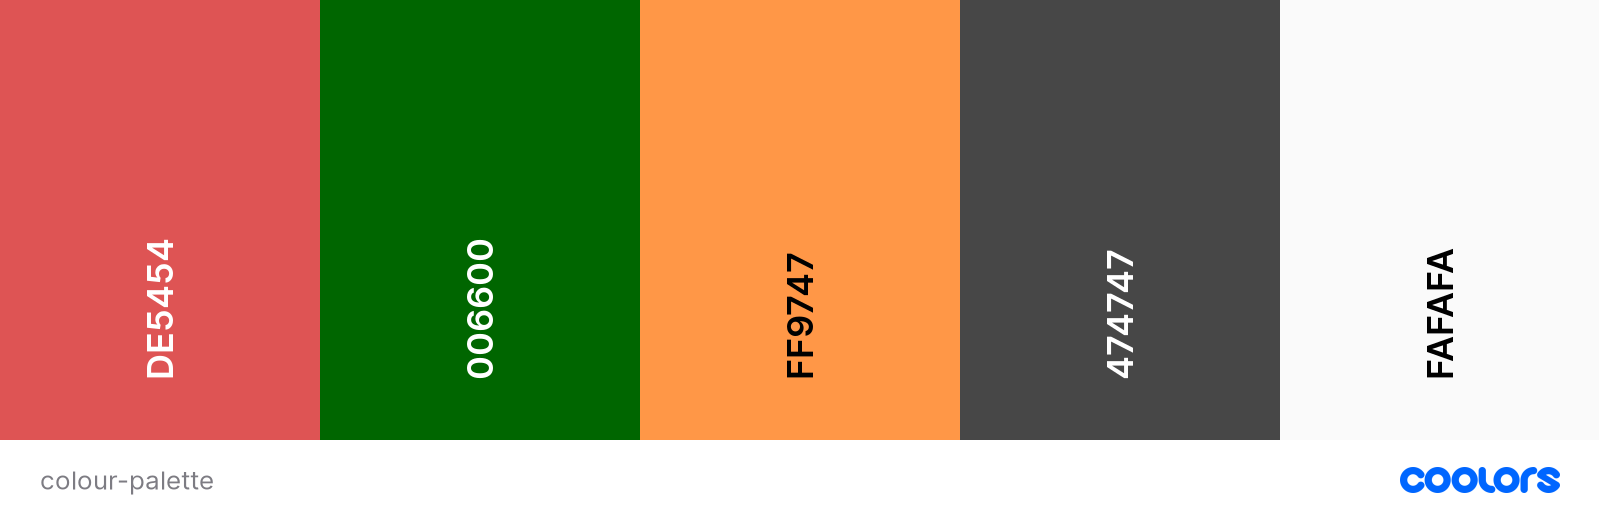
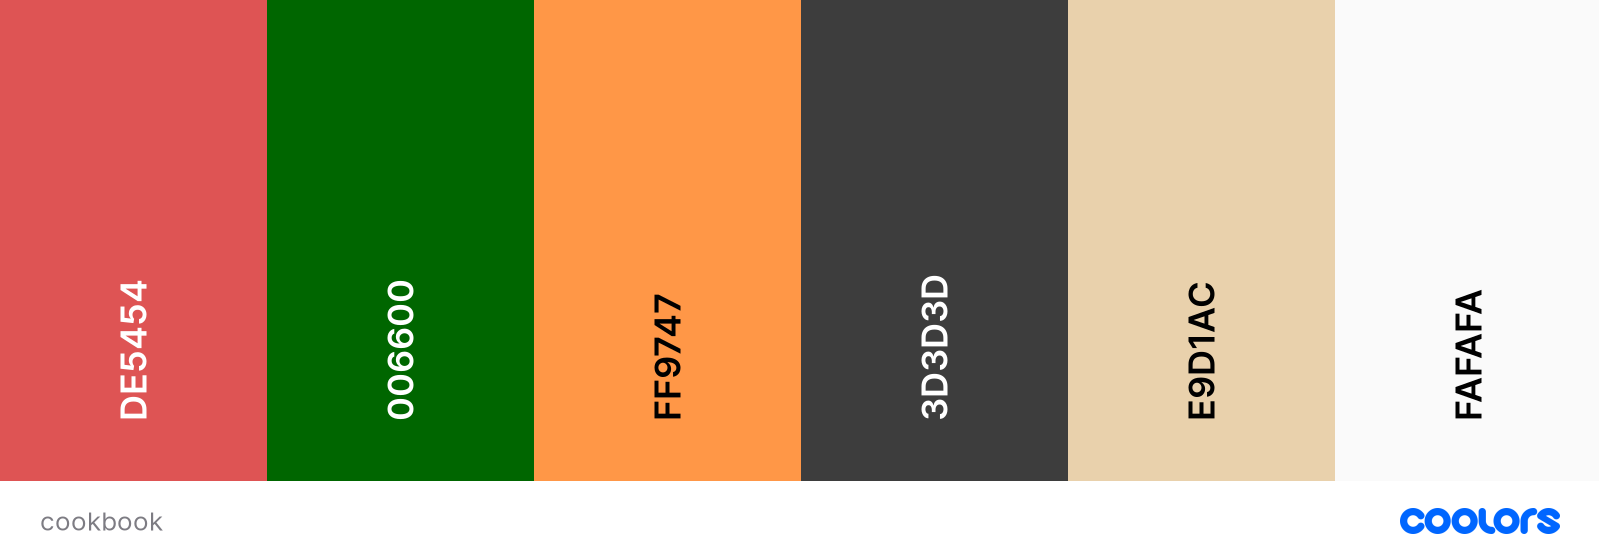
Apply fixes after lighthouse test:
- re-sequence heading elements for accessibility
  - add titles to links and buttons for accessibility
  - alter the shade of grey for better contrast and update colour
    palette image

diff --git a/templates/base.html b/templates/base.html
@@ -3,6 +3,7 @@
   <head>
     <meta charset="utf-8">
     <meta name="viewport" content="width=device-width, initial-scale=1.0">
+    <meta name="description" content="An online cookbook designed to allow users to store all their recipes in one place and share them with our community">
     <link rel="stylesheet" type="text/css"
       href="https://cdnjs.cloudflare.com/ajax/libs/font-awesome/5.15.4/css/all.min.css"
       integrity="sha512-1ycn6IcaQQ40/MKBW2W4Rhis/DbILU74C1vSrLJxCq57o941Ym01SwNsOMqvEBFlcgUa6xLiPY/NS5R+E6ztJQ=="
@@ -39,7 +40,7 @@
                 <div class="valign-wrapper">
                   <input type="text" name="query" id="query" minlength="3"
                     placeholder="Search Recipes" required>
-                  <button type="submit" class="search-button"><i class="fas fa-search"></i></button>
+                  <button type="submit" class="search-button"><i title="search" class="fas fa-search"></i></button>
                 </div>
               </form>
             </li>
@@ -51,9 +52,9 @@
         <li>
           <form action="{{ url_for('search') }}" method="POST">
             <div class="valign-wrapper">
-              <input type="text" name="query" id="query" minlength="3"
+              <input type="text" name="query" id="mobile-query" minlength="3"
                 placeholder="Search Recipes" required>
-              <button type="submit" class="search-button"><i class="fas fa-search"></i></button>
+              <button type="submit" class="search-button"><i title="search" class="fas fa-search"></i></button>
             </div>
           </form>
         </li>
@@ -98,7 +99,7 @@
         <div class="row">
           <div class="col s10 m6 offset-s1 offset-m3 modal-footer">
             <a href="{{ url_for('logout') }}" class="modal-close btn">Log out</a>
-            <button class="modal-close btn cancel-button">Cancel</button>
+            <button name="cancel" class="modal-close btn cancel-button">Cancel</button>
           </div>
         </div>
       </div>
@@ -108,7 +109,7 @@
       <div class="container">
         <div class="row">
           <div class="col m6 s12">
-            <h5>Need Equipment?</h5>
+            <h4>Need Equipment?</h4>
             <p>Take a look at these sites. They have all been recommended by our users</p>
           </div>
           <div class="col m4 offset-m2 s12">
@@ -125,10 +126,10 @@
       <div class="footer-copyright">
         <div class="container">
         © 2021 Copyright Cookbook
-        <a class="right" href="https://www.facebook.com"><i class="fab fa-facebook-square hoverable"></i></a>
-        <a class="right" href="https://www.instagram.com"><i class="fab fa-instagram-square hoverable"></i></a>
-        <a class="right" href="https://www.pinterest.com"><i class="fab fa-pinterest-square hoverable"></i></a>
-        <a class="right" href="https://www.twitter.com"><i class="fab fa-twitter-square hoverable"></i></a>
+        <a class="right" href="https://www.facebook.com"><i title="facebook" class="fab fa-facebook-square hoverable"></i></a>
+        <a class="right" href="https://www.instagram.com"><i title="instagram" class="fab fa-instagram-square hoverable"></i></a>
+        <a class="right" href="https://www.pinterest.com"><i title="pinterest" class="fab fa-pinterest-square hoverable"></i></a>
+        <a class="right" href="https://www.twitter.com"><i title="twitter" class="fab fa-twitter-square hoverable"></i></a>
         </div>
       </div>
     </footer>

diff --git a/templates/home.html b/templates/home.html
@@ -21,14 +21,14 @@
   </section>
 
   <section class="card-panel browse-panel">
-    <h3 class="center-align">Recently Added Recipes</h3>
+    <h2 class="center-align">Recently Added Recipes</h2>
 
     <div class="row tile-grid">
       {% for recipe in recipes %}
         <a href="{{ url_for('recipe', recipe_id = recipe._id) }}">
           <div class="card-panel hoverable tile">
             <div class="card-content fixed-height">
-              <h4 class="card-title">{{ recipe.recipe_title }}</h4>
+              <h3 class="card-title">{{ recipe.recipe_title }}</h3>
               <p>{{ recipe.recipe_description }}</p>
               <p>Uploaded by: {{ recipe.created_by }}</p>
             </div>

diff --git a/static/css/style.css b/static/css/style.css
@@ -3,7 +3,7 @@
   --my-red: #de5454;
   --my-green: #006600;
   --my-orange: #ff9747;
-  --my-grey: #474747;
+  --my-grey: #3d3d3d;
   --my-white: #fafafa;
   --my-beige: #e9d1ac;
 }
